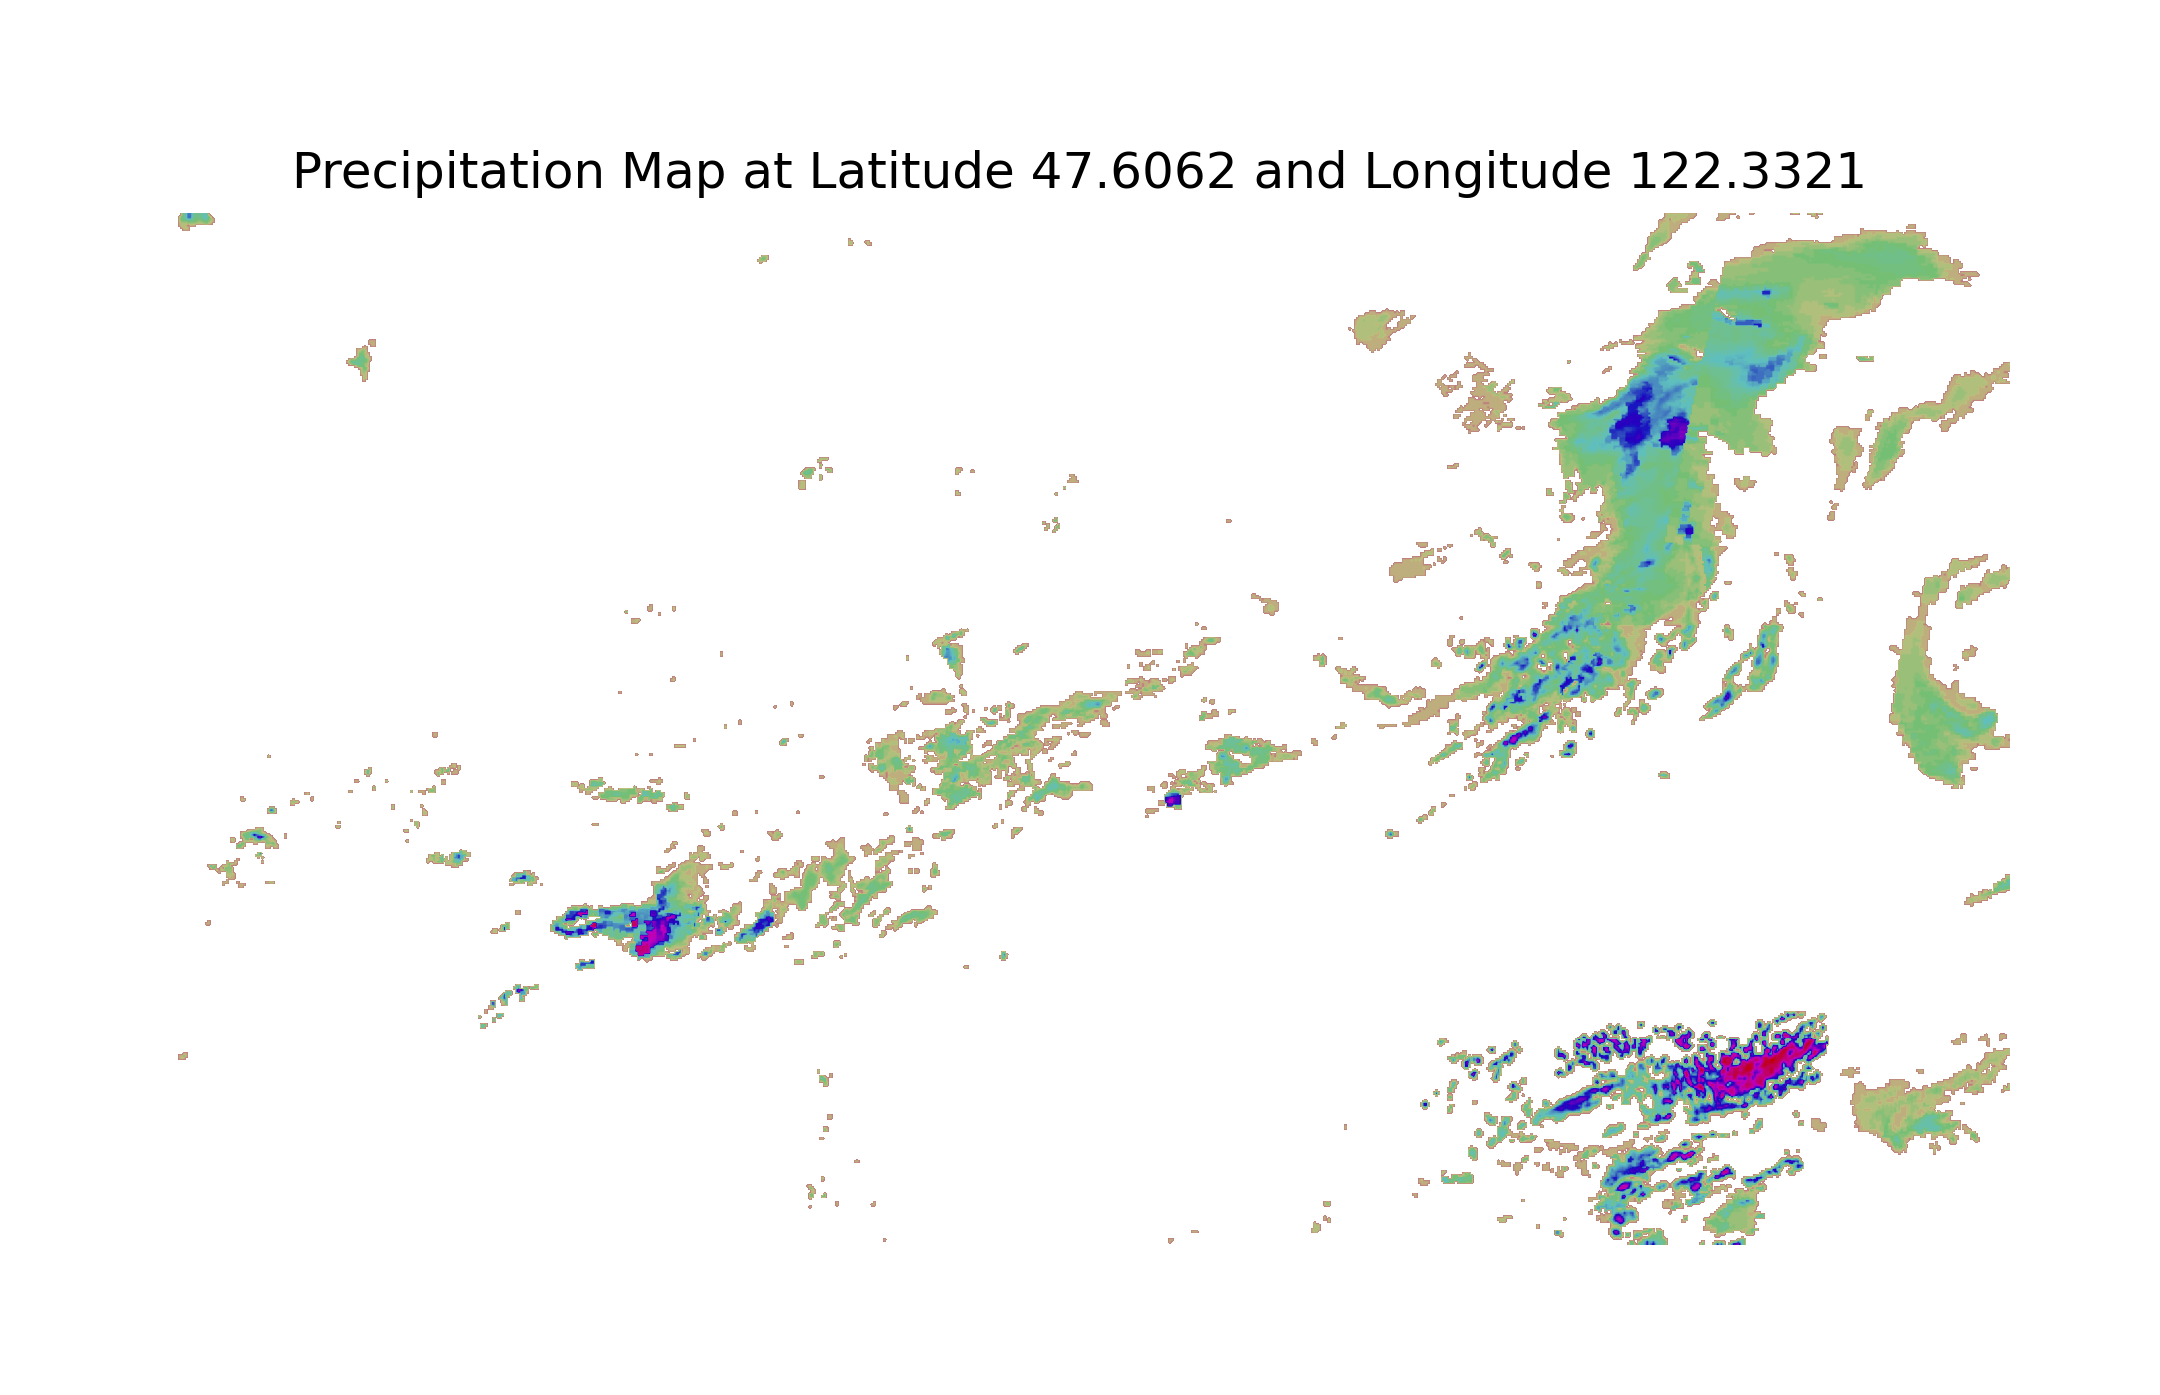
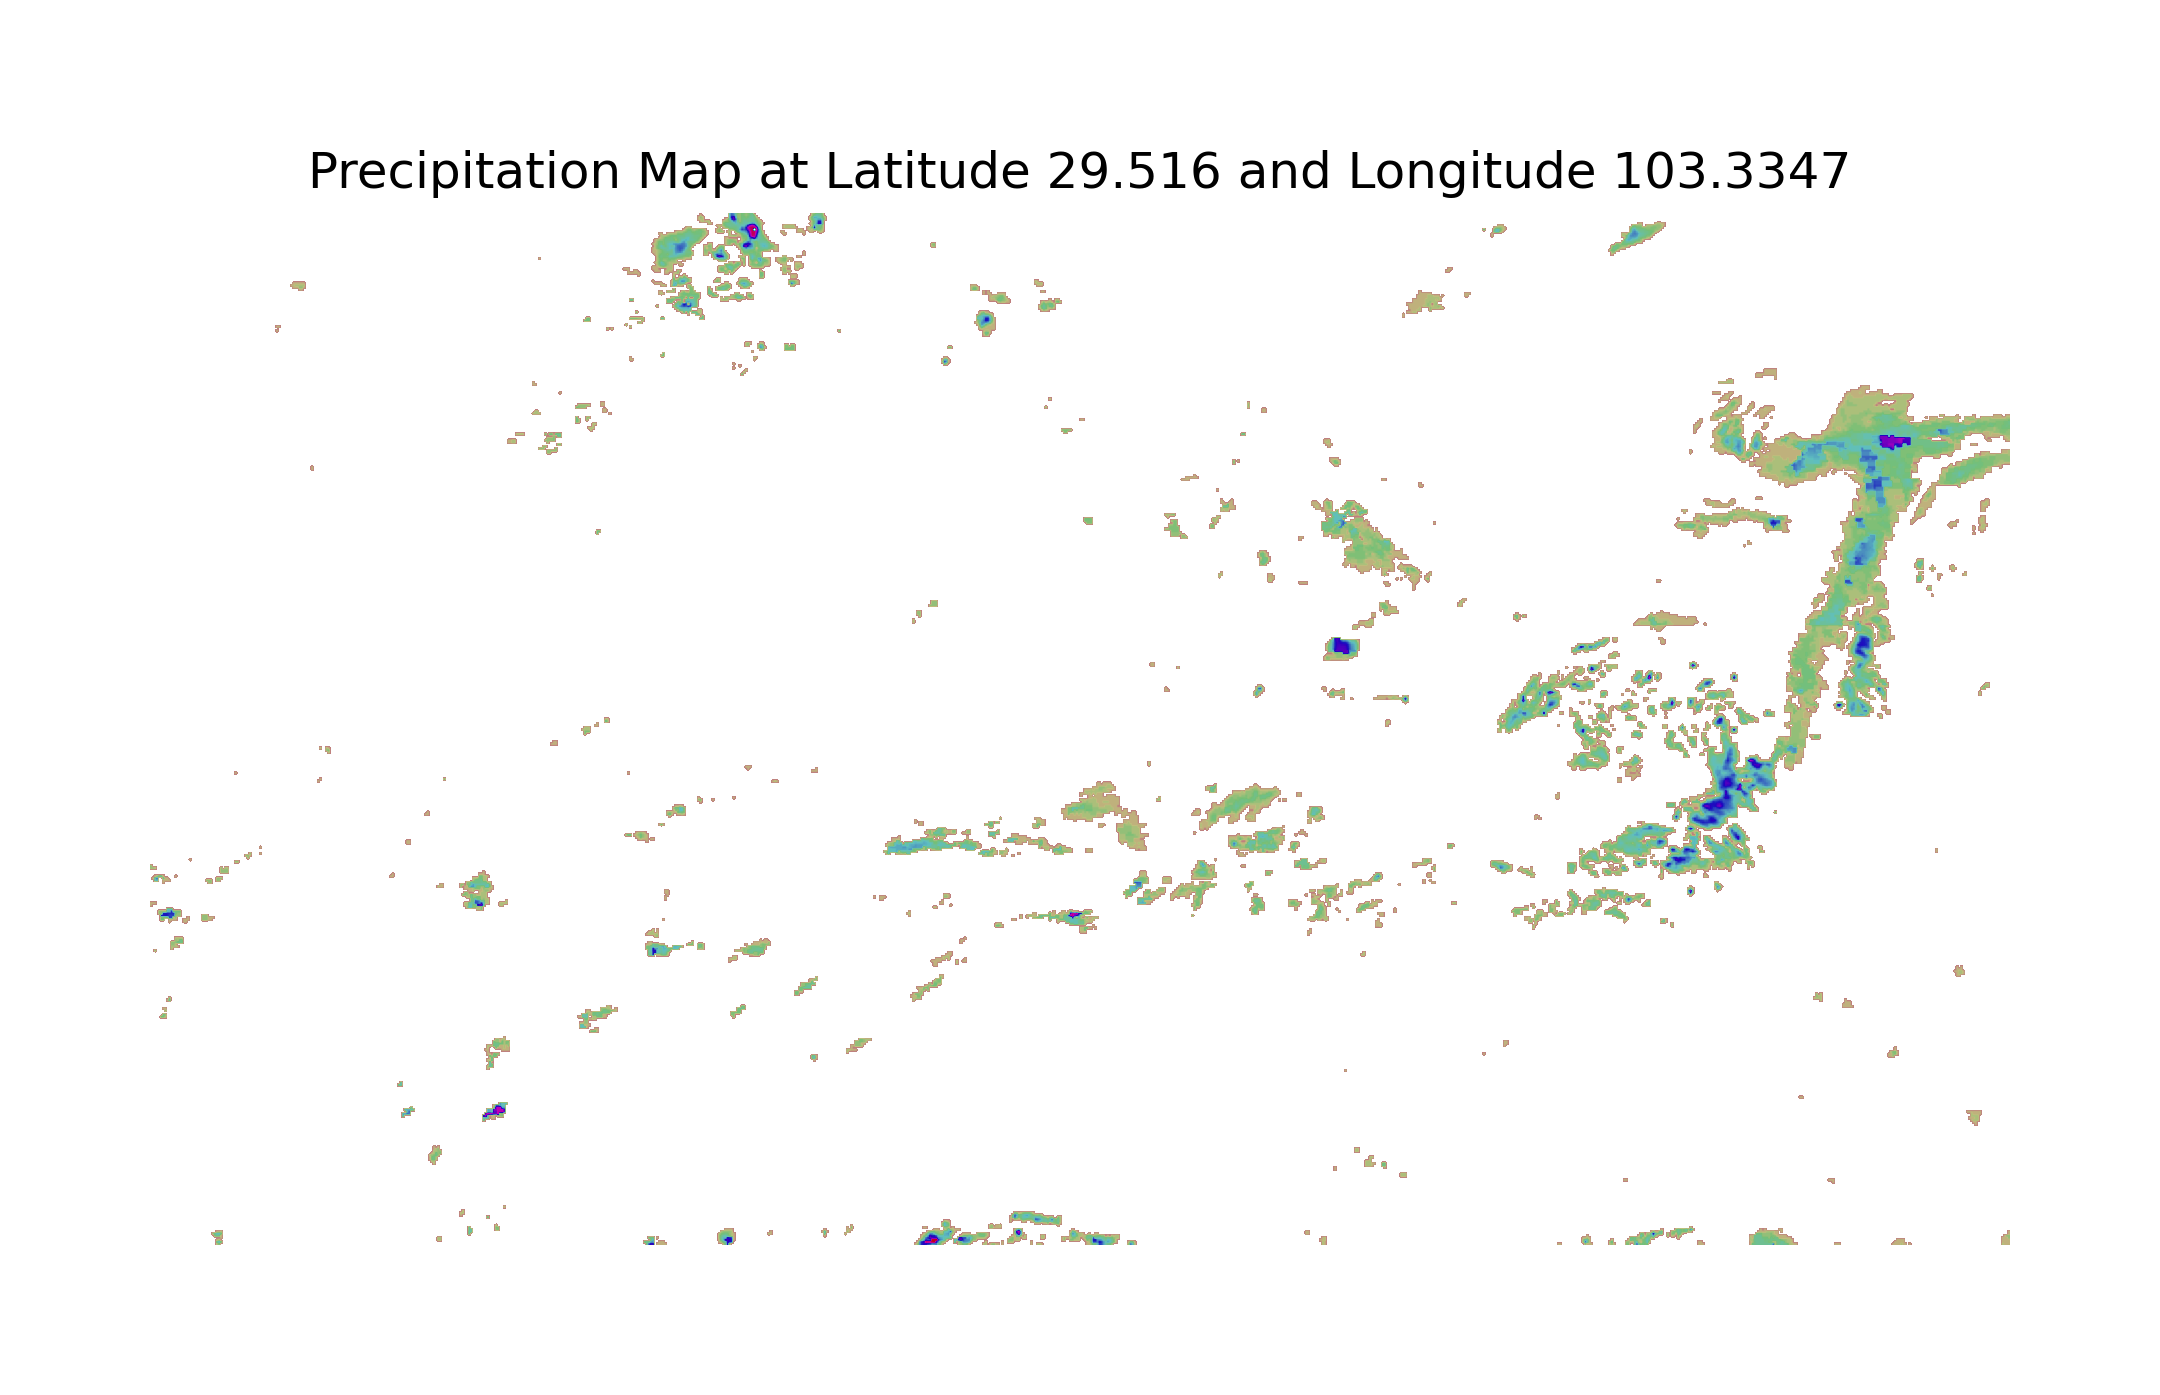
Updating branch with main

diff --git a/GLACIER API/precip_graph_function.py b/GLACIER API/precip_graph_function.py
@@ -149,4 +149,4 @@ def graph_precip(lat, long):
     plt.show()
 
 
-graph_precip(47.6062, 122.3321)
+graph_precip(29.5160, 103.3347)
